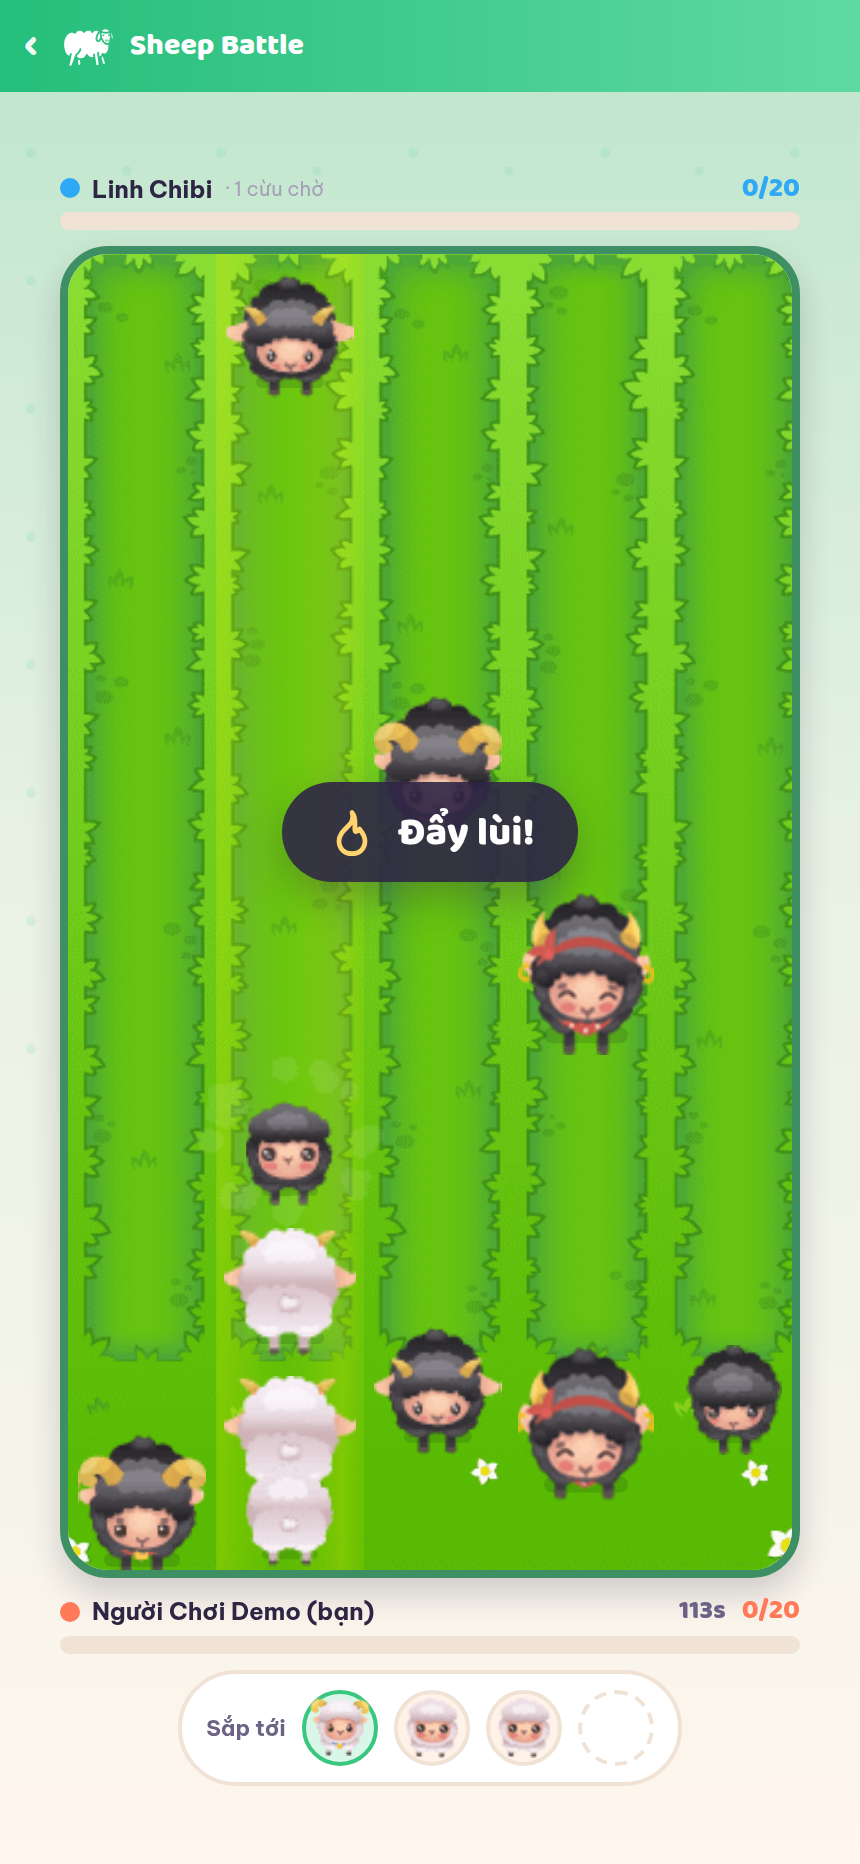
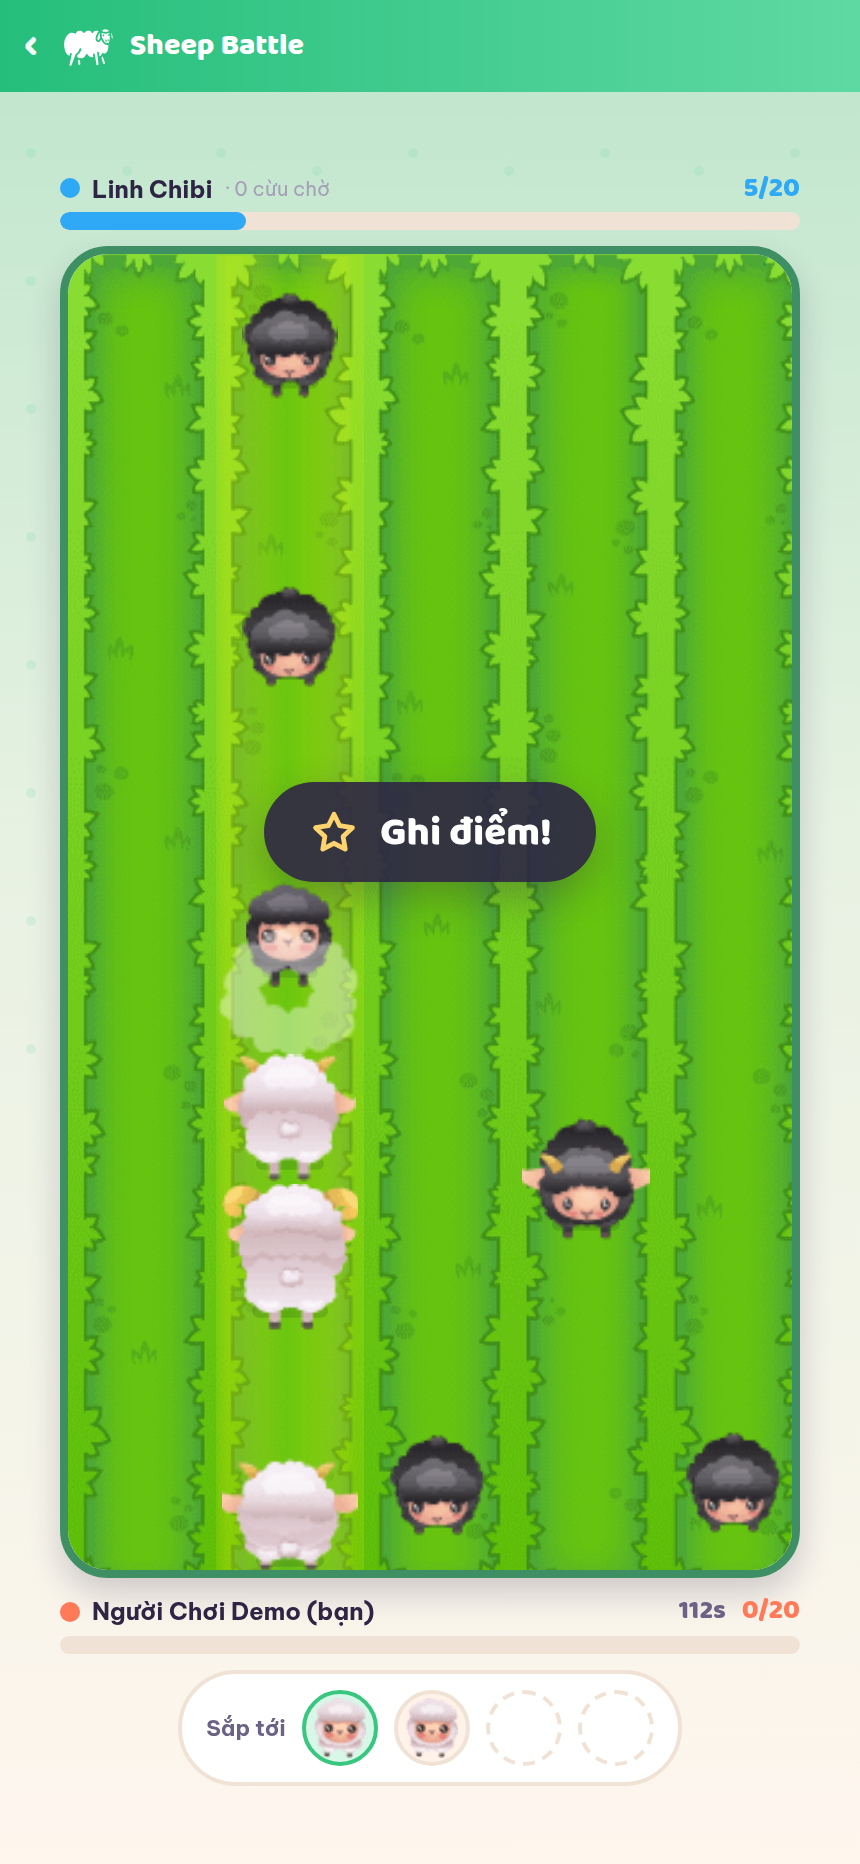
Cắt sàn Sheep Battle đúng vùng có làn cỏ để cỏ phủ kín sân
Ảnh map.png gốc có đồng hoa phẳng từ y 825 xuống đáy, không có bụi ngăn làn.
Giữ nguyên phần đó thì đáy sân phía người chơi trông trống trơn, lệch hẳn với
phần cỏ bên trên. Cắt vùng hiển thị còn y 190-825 (đo bằng độ nhiễu màu theo
từng hàng) nên cỏ và hàng bụi chạy liền từ đầu tới cuối sân.

diff --git a/apps/mobile/src/games/SheepArena.tsx b/apps/mobile/src/games/SheepArena.tsx
@@ -16,10 +16,12 @@ import { BoardProps } from './shared';
 const MAP_LANES = { x: 113, width: 418, full: 540 };
 
 /**
- * Dải trời và nông trại nằm ở y 0–190 của ảnh gốc. Cắt bỏ để cừu không đi lên
- * cả bầu trời; giữ từ đầu làn cỏ (y 190) xuống hết đồng hoa (y 960).
+ * Chỉ giữ đúng phần cỏ có làn: dải trời và nông trại nằm ở y 0–190, còn từ y 825
+ * xuống đáy là đồng hoa phẳng lì không có bụi ngăn làn — để lại thì đáy sân (phía
+ * người chơi) trông trống trơn, không liền với phần cỏ bên trên. Đo bằng độ nhiễu
+ * màu theo từng hàng: bụi cỏ chạy đều tới y 820 rồi tắt hẳn ở 825.
  */
-const MAP_ROWS = { y: 190, height: 770, full: 960 };
+const MAP_ROWS = { y: 190, height: 635, full: 960 };
 
 /** Cừu càng cấp cao càng to và nhiều chi tiết (sừng, gạc, vương miện). */
 const LEVEL_SCALE = [0.74, 0.74, 0.86, 0.98, 1.1, 1.24];
